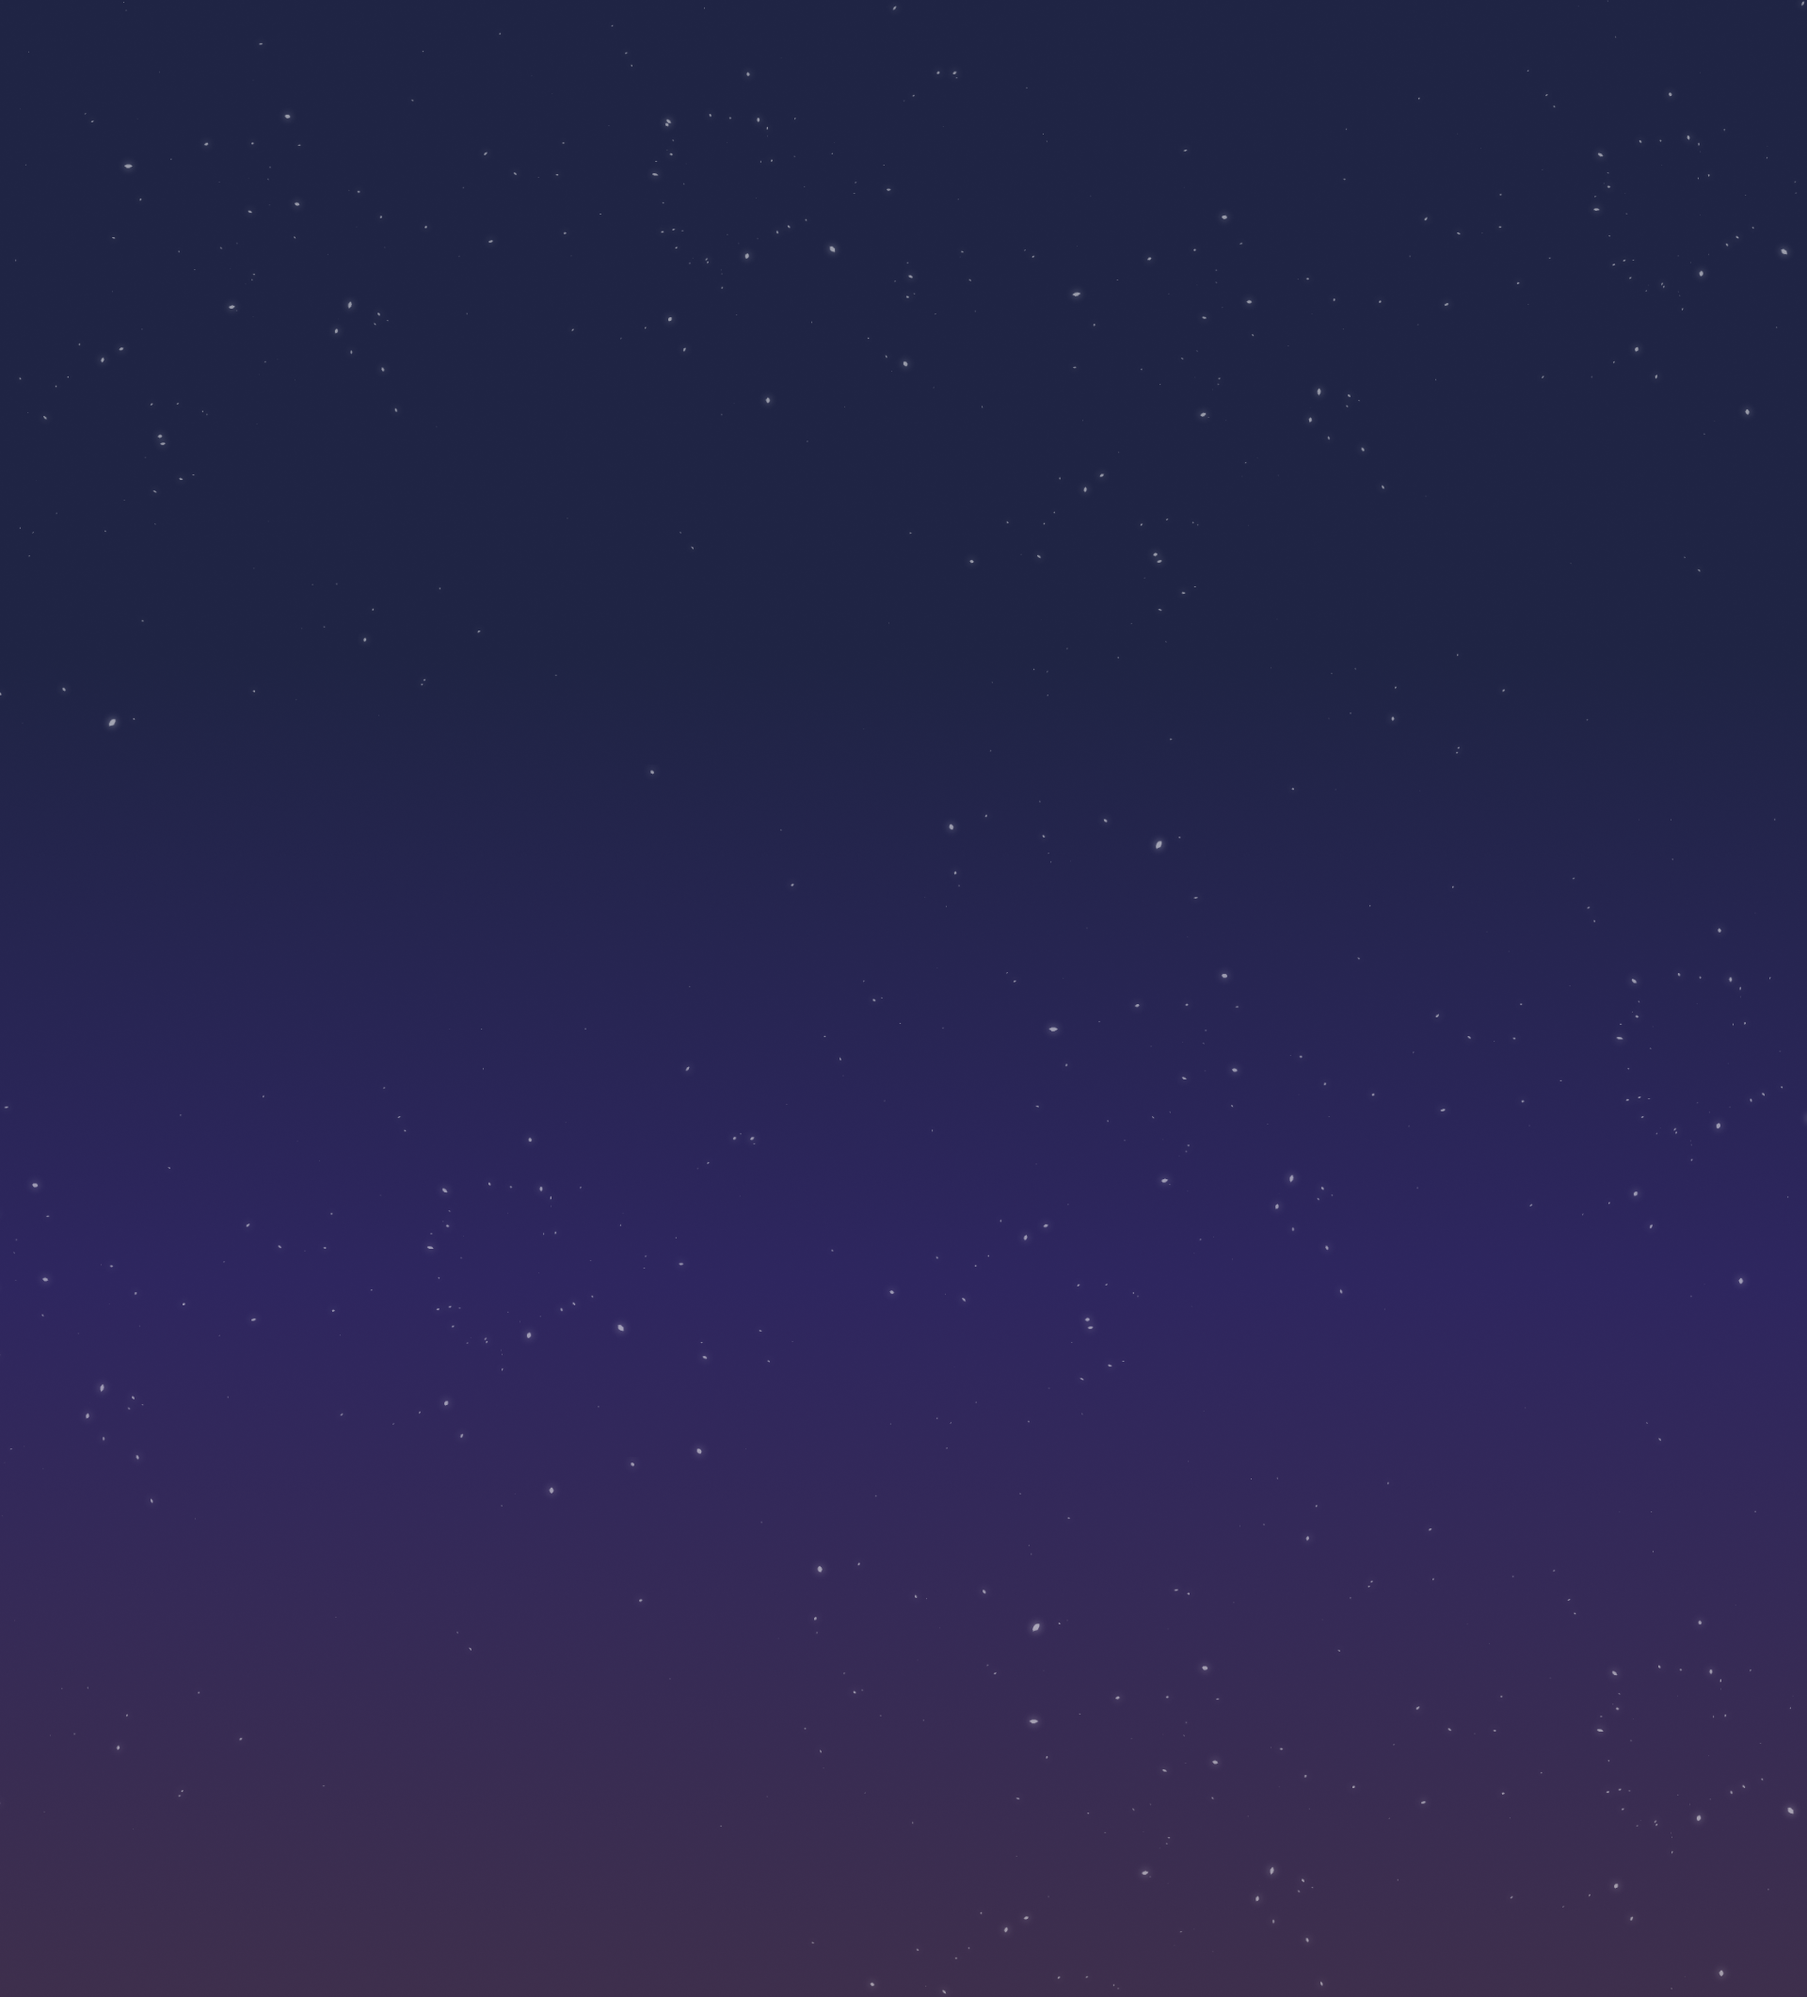
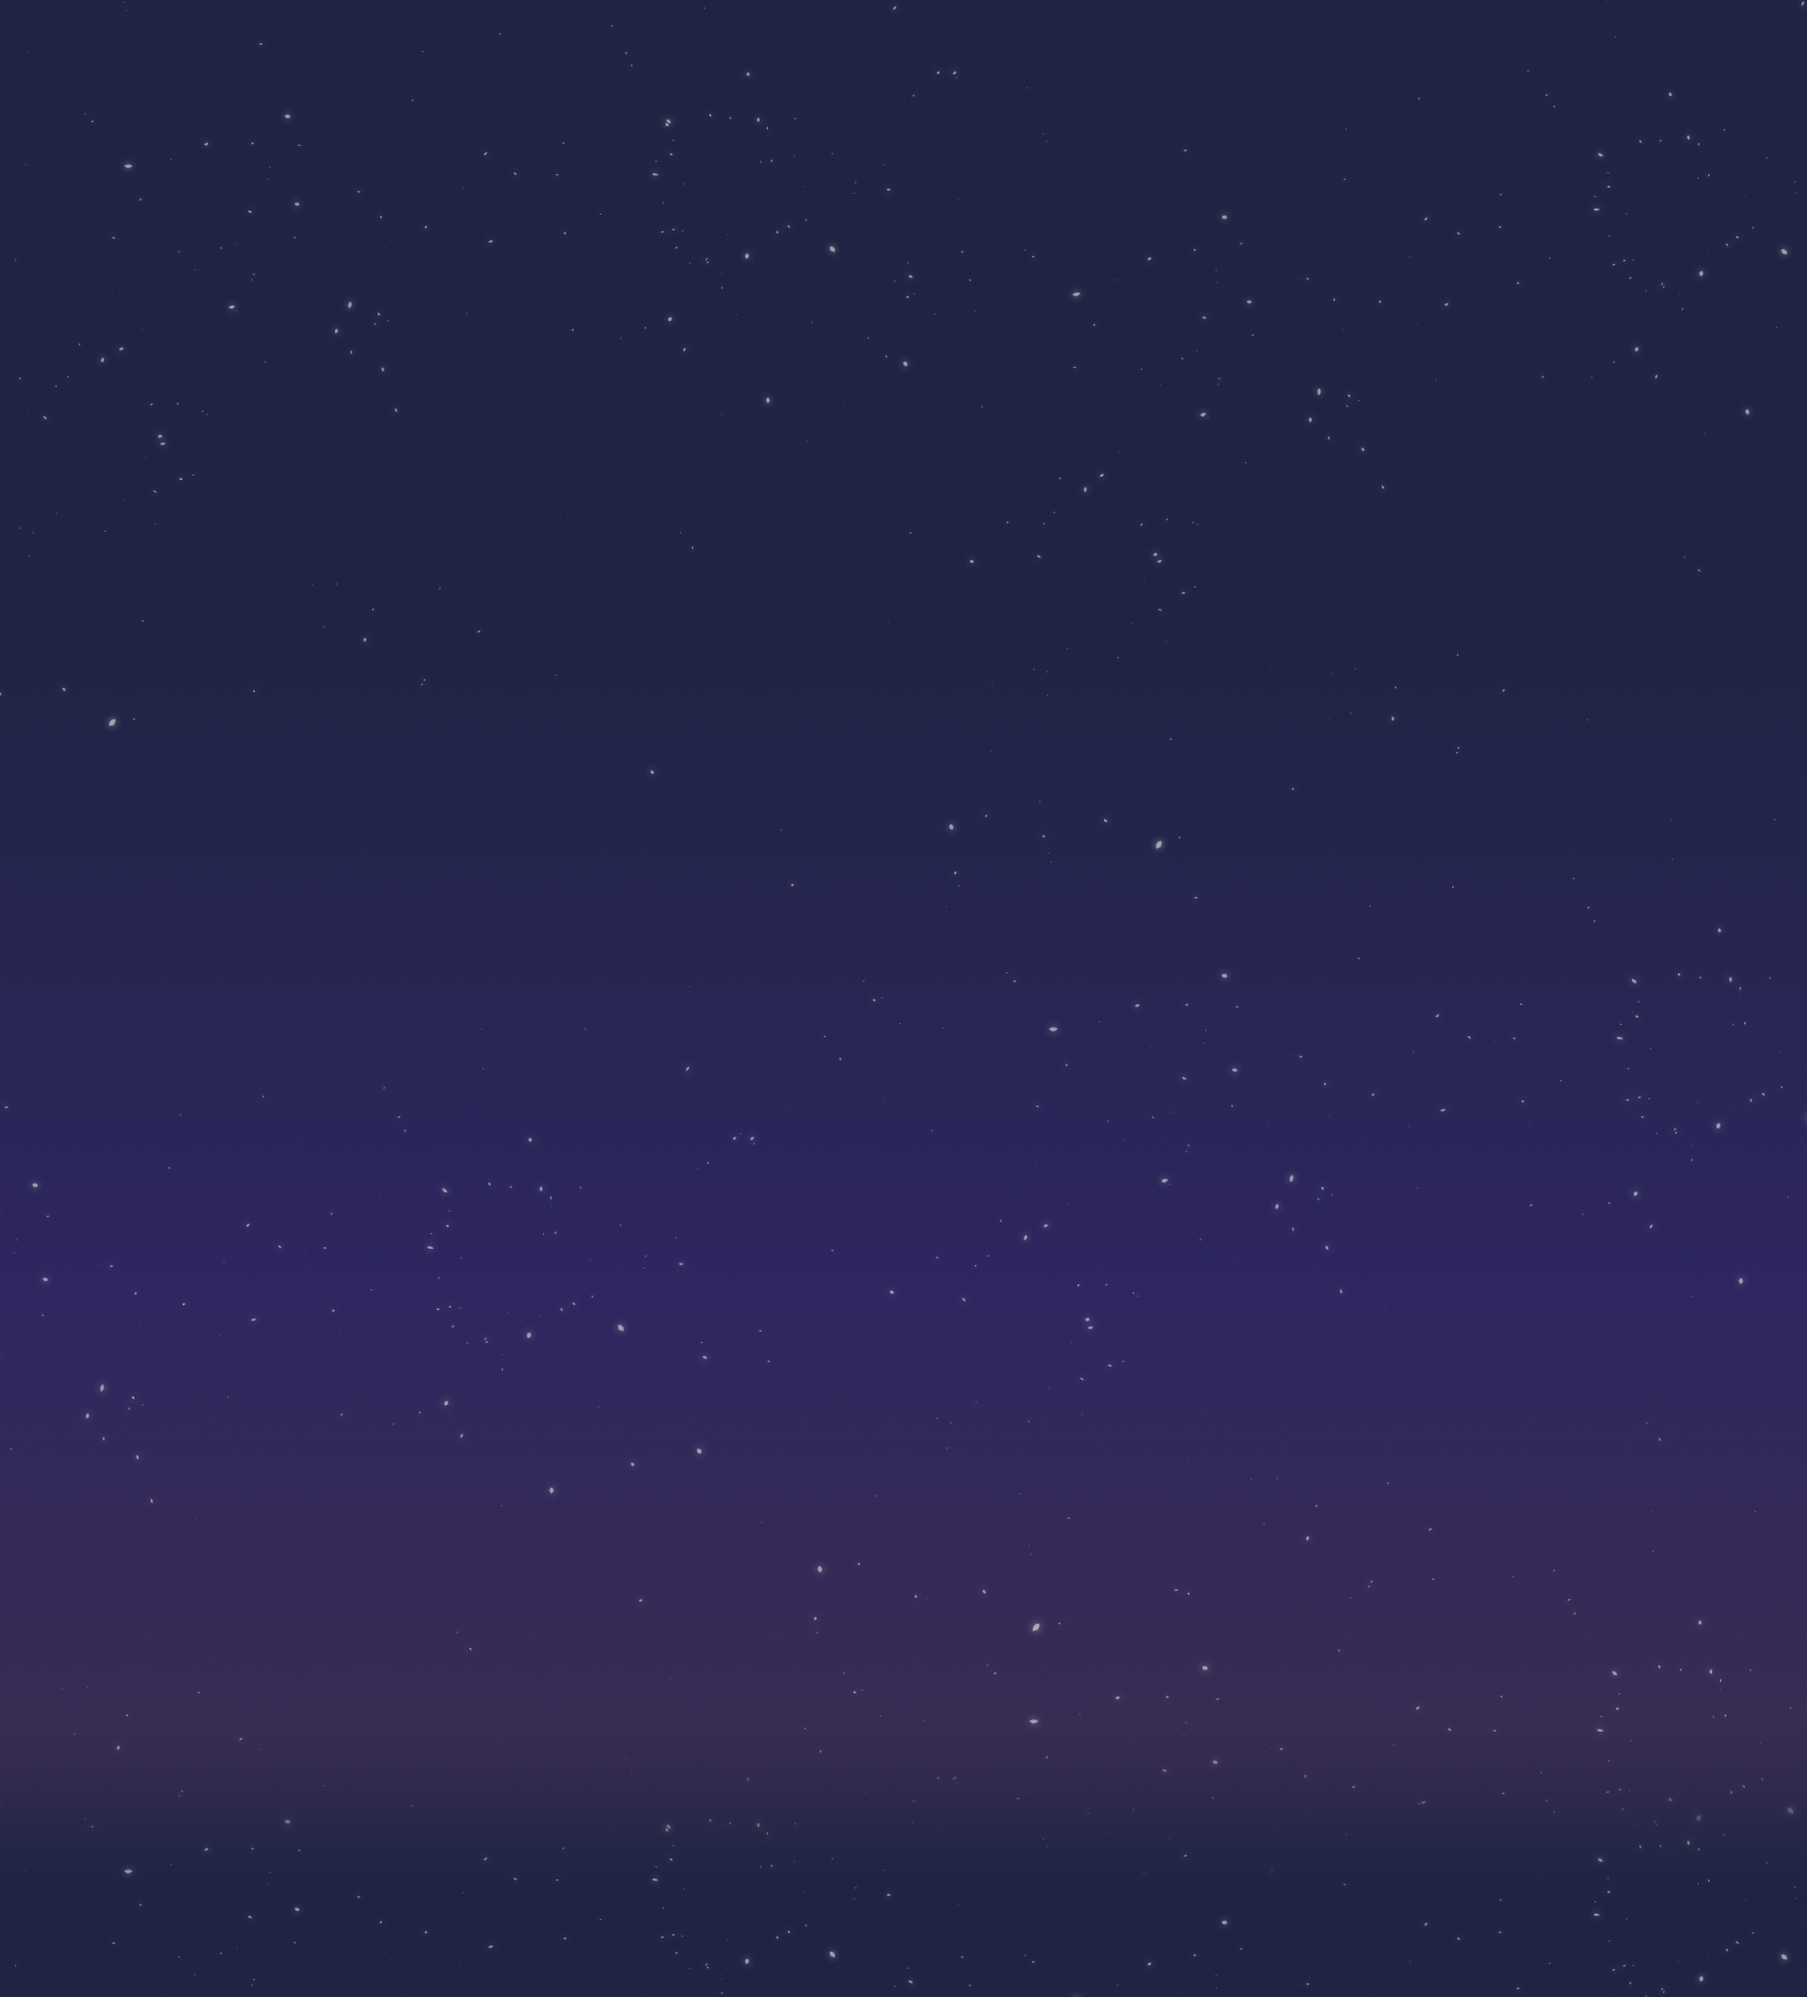
melhorando fundos tela de projetos

Changed region(s): [[0.0, 0.9331, 1.0, 1.0]]

diff --git a/src/styles/projects.css b/src/styles/projects.css
@@ -4,11 +4,7 @@
     min-height: 100vh;
 } */
 
-body {
-    
-    background-size: 100% 100%;
-    background-repeat: no-repeat;
-}
+
 
 /* p {
     color: black;
@@ -30,6 +26,7 @@ h1 {
 
     body{
         background-image: url(../images/projects_bg.png);
+        background-repeat: repeat-y;
     }
     #character-content {
         margin-left: 50.43vw;
@@ -41,7 +38,7 @@ h1 {
         width: 15.2vw;
         height: 10vw;
         background-color: #F2F2F2;
-        border-radius: 0.52vw;
+        border-radius: 1.52vw;
         padding: 0.52vw;
         margin-bottom: 1.04vw;
     }
@@ -173,6 +170,7 @@ h1 {
 
     body{
         background-image: url(../images/projects_bg_mobile.png);
+        background-repeat: repeat-y;
     }
 
     main {
@@ -195,7 +193,7 @@ h1 {
         width: 46vw;
         height: 18vw;
         background-color: #F2F2F2;
-        border-radius: 0.52vw;
+        border-radius: 2.52vw;
         padding: 3vw;
         /* margin-bottom: 1.04vw; */
     }
